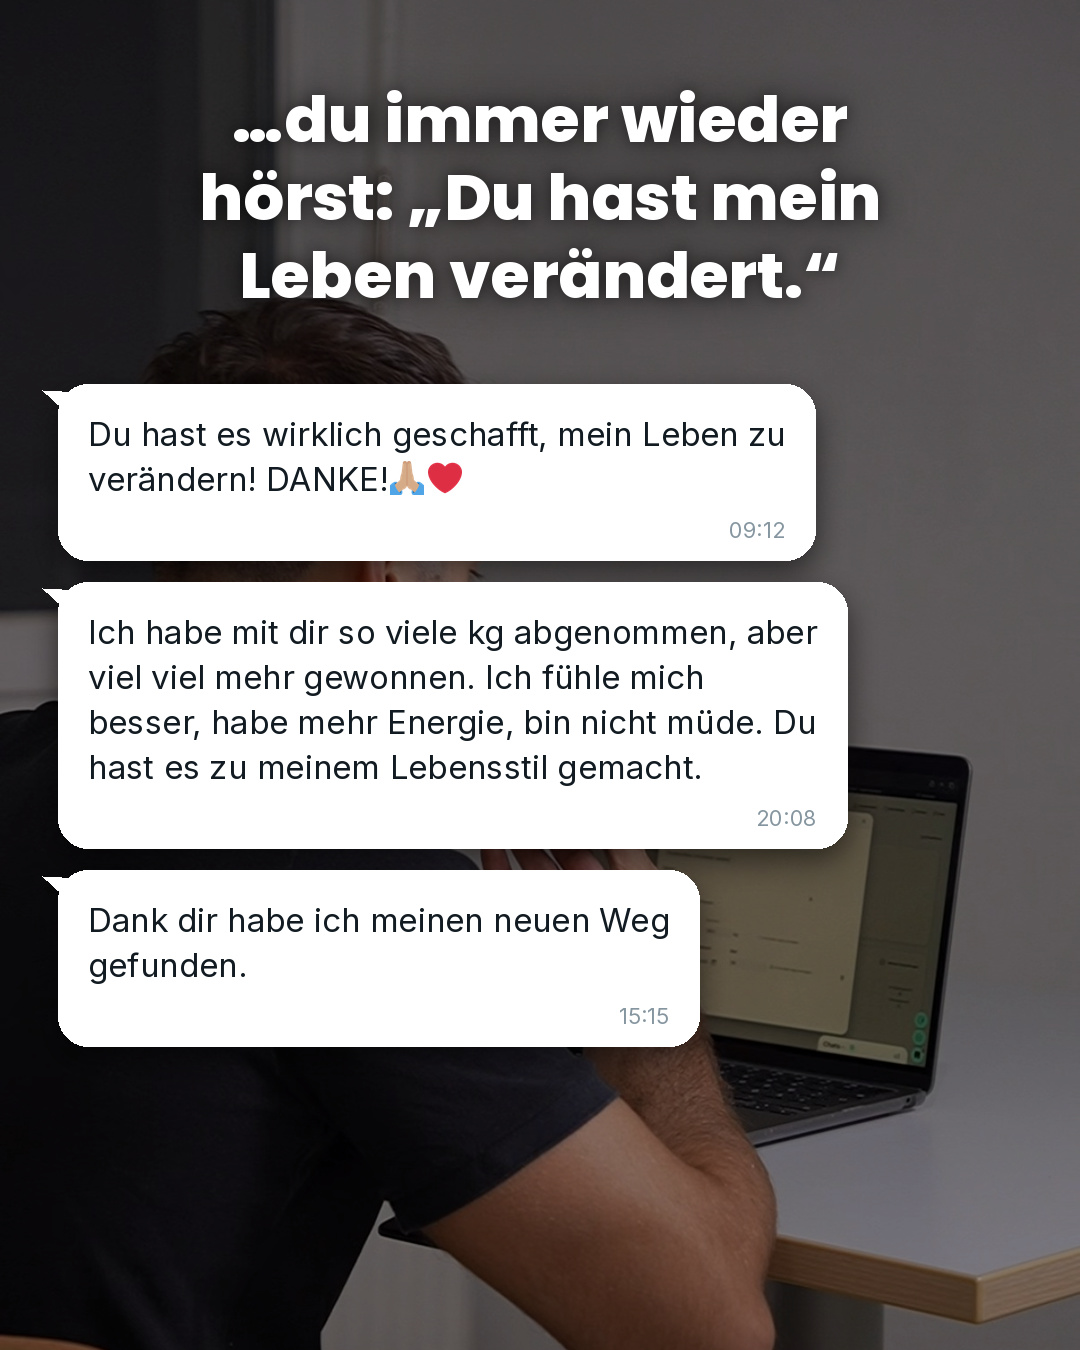
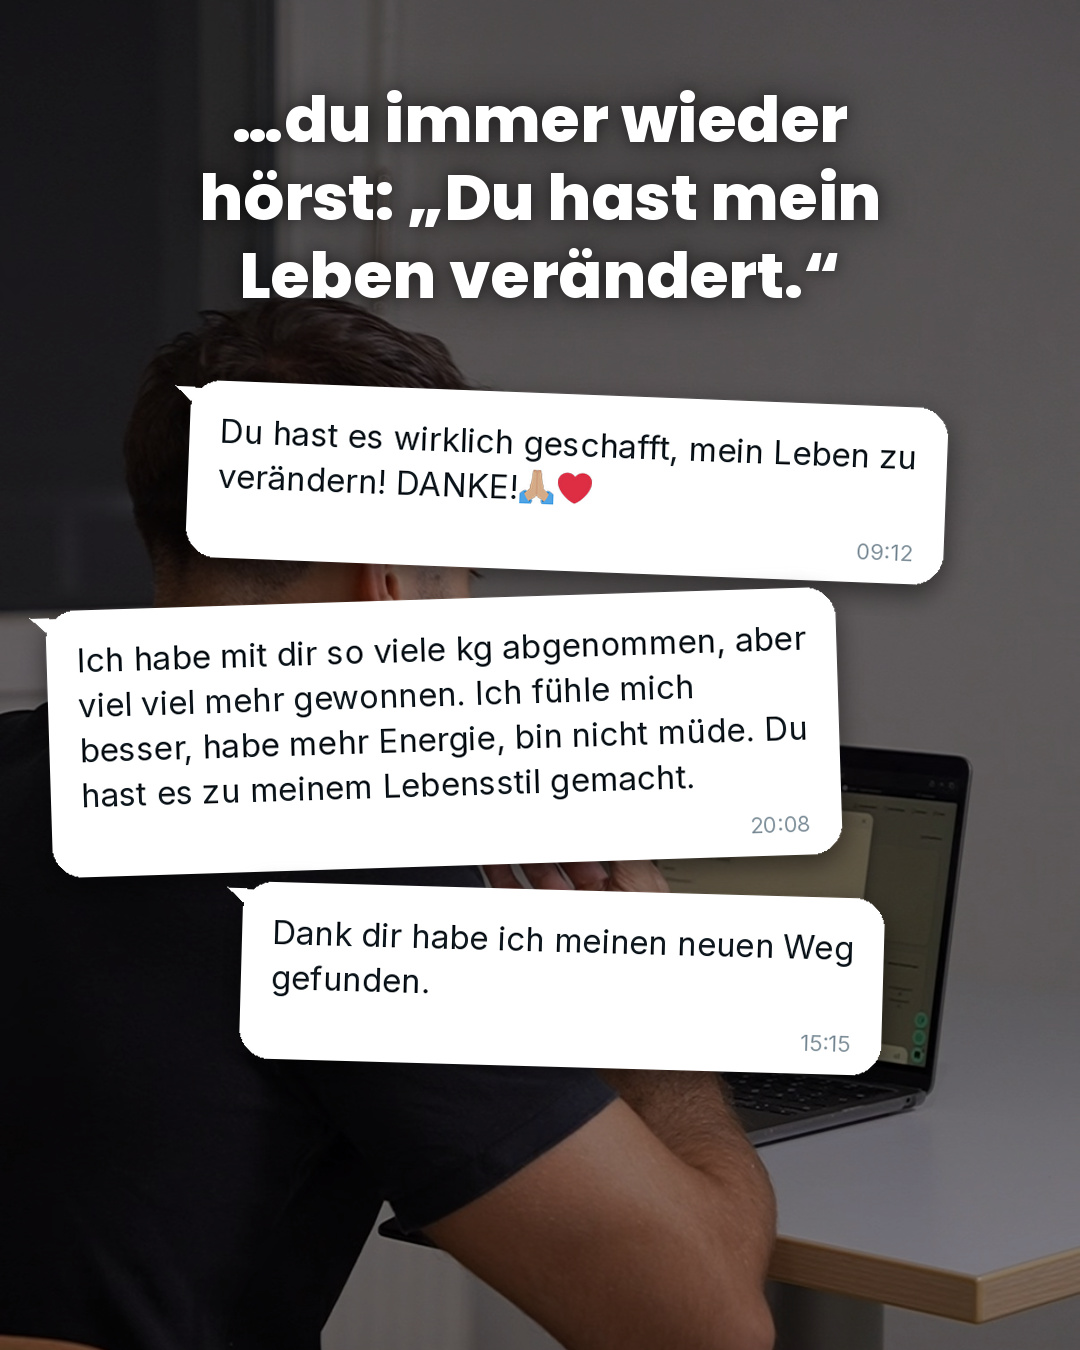
Cringe-Post: Nachrichten als Collage statt als Liste
Die Chat-Blasen stehen nicht mehr buendig untereinander. Jede bringt jetzt
einen eigenen Versatz nach links oder rechts, eine leichte Drehung und
ihren eigenen Schlagschatten mit, sodass es nach aufgeklebten Schnipseln
aussieht. Die Reihenfolge von oben nach unten bleibt, damit der Slide
lesbar bleibt.

Dafuer baut blase_bild() die Blase jetzt als freistehendes RGBA-Bild, das
gedreht aufs Foto kopiert wird.

Claude-Session: https://claude.ai/code/session_01HQCAC1gXM5ymEH3L17w63v

Changed region(s): [[0.0306, 0.28, 0.8861, 0.8089]]

diff --git a/posts/spezial/es-ist-cringe/bau.py b/posts/spezial/es-ist-cringe/bau.py
@@ -165,51 +165,75 @@ def umbrechen_emoji(d, text, f, max_breite, groesse):
     return zeilen
 
 
-def blase(blatt, text, y, zeit="", x=58, groesse=34, max_breite=0.74, radius=30):
-    """Zeichnet eine Chat-Blase wie in einem Messenger. Gibt die Unterkante zurueck."""
-    d = ImageDraw.Draw(blatt)
+def blase_bild(text, zeit="", groesse=34, max_breite=0.74, radius=30):
+    """Baut eine Chat-Blase als freistehendes Bild mit Schatten."""
+    mess = ImageDraw.Draw(Image.new("RGB", (10, 10)))
     f = ImageFont.truetype(INTER, groesse)
     fz = ImageFont.truetype(INTER, 22)
     innen = 30
     zeilen = []
     for absatz in text.split("\n"):
-        zeilen += umbrechen_emoji(d, absatz, f, int(W * max_breite) - 2 * innen, groesse) if absatz.strip() else [""]
+        zeilen += umbrechen_emoji(mess, absatz, f, int(W * max_breite) - 2 * innen, groesse) if absatz.strip() else [""]
     zh = int(groesse * 1.38)
-    breite = max(_breite(d, z, f, groesse) for z in zeilen) + 2 * innen
+    breite = max(_breite(mess, z, f, groesse) for z in zeilen) + 2 * innen
     if zeit:
-        breite = max(breite, d.textlength(zeit, font=fz) + 2 * innen + 40)
+        breite = max(breite, mess.textlength(zeit, font=fz) + 2 * innen + 40)
     breite = int(min(breite, W * max_breite))
     hoehe = len(zeilen) * zh + 2 * innen + (26 if zeit else 0)
 
-    schatten = Image.new("L", blatt.size, 0)
-    ImageDraw.Draw(schatten).rounded_rectangle([x, y, x + breite, y + hoehe], radius, fill=140)
-    schatten = schatten.filter(ImageFilter.GaussianBlur(14))
-    blatt.paste(Image.new("RGB", blatt.size, (0, 0, 0)), (0, 12), schatten)
+    rand = 34                      # Platz fuer Schatten und Zipfel
+    bild = Image.new("RGBA", (breite + 2 * rand, hoehe + 2 * rand), (0, 0, 0, 0))
+    x0, y0 = rand, rand
 
-    d = ImageDraw.Draw(blatt)
-    d.rounded_rectangle([x, y, x + breite, y + hoehe], radius, fill=BLASE)
-    d.polygon([(x + 6, y + radius - 4), (x - 16, y + 6), (x + 22, y + 8)], fill=BLASE)
-    ty = y + innen
+    schatten = Image.new("L", bild.size, 0)
+    sd = ImageDraw.Draw(schatten)
+    sd.rounded_rectangle([x0, y0 + 10, x0 + breite, y0 + hoehe + 10], radius, fill=130)
+    schatten = schatten.filter(ImageFilter.GaussianBlur(13))
+    bild.paste(Image.new("RGBA", bild.size, (0, 0, 0, 255)), (0, 0), schatten)
+
+    d = ImageDraw.Draw(bild)
+    d.rounded_rectangle([x0, y0, x0 + breite, y0 + hoehe], radius, fill=BLASE)
+    d.polygon([(x0 + 6, y0 + radius - 4), (x0 - 16, y0 + 6), (x0 + 22, y0 + 8)], fill=BLASE)
+    ty = y0 + innen
     for zeile in zeilen:
-        _zeichne(blatt, d, x + innen, ty, zeile, f, groesse, BLASE_TEXT)
+        _zeichne(bild, d, x0 + innen, ty, zeile, f, groesse, BLASE_TEXT)
         ty += zh
     if zeit:
         zb = d.textlength(zeit, font=fz)
-        d.text((x + breite - innen - zb, y + hoehe - innen - 14), zeit, font=fz, fill=BLASE_ZEIT)
-    return y + hoehe
+        d.text((x0 + breite - innen - zb, y0 + hoehe - innen - 14), zeit, font=fz, fill=BLASE_ZEIT)
+    return bild, hoehe
+
+
+def blase(blatt, text, y, zeit="", x=58, groesse=34, max_breite=0.74,
+          radius=30, winkel=0.0):
+    """Setzt eine Blase schraeg ins Bild. Gibt die Unterkante zurueck."""
+    bild, hoehe = blase_bild(text, zeit, groesse, max_breite, radius)
+    if winkel:
+        bild = bild.rotate(winkel, resample=Image.BICUBIC, expand=True)
+    px = int(x - 34)
+    py = int(y - 34)
+    px = max(-20, min(px, W - bild.width + 20))
+    blatt.paste(bild, (px, py), bild)
+    return y + hoehe + abs(winkel) * 6
 
 
 def nachrichten(foto, ziel, kopf_text, blasen, mitte=(0.5, 0.5), gr_oben=64,
                 oben_y=0.055, start=0.30, abstand=26, abdunkeln=0.42):
-    """Kopfzeile oben, darunter echte Nachrichten als Chat-Blasen."""
+    """Kopfzeile oben, darunter die Nachrichten als lose Collage.
+
+    Jede Blase bringt ihren eigenen Versatz nach links/rechts und eine leichte
+    Drehung mit, damit es nach aufgeklebten Schnipseln aussieht statt nach
+    Liste. Die Reihenfolge von oben nach unten bleibt, damit es lesbar bleibt.
+    """
     blatt = fuellen(os.path.join(POOL, foto), mitte)
     if abdunkeln:
         dunkel = Image.new("RGB", blatt.size, (0, 0, 0))
         blatt = Image.blend(blatt, dunkel, abdunkeln)
     block(blatt, kopf_text, oben_y, gr_oben, 0.86)
     y = int(H * start)
-    for text, zeit, gr in blasen:
-        y = blase(blatt, text, y, zeit, groesse=gr) + abstand
+    for text, zeit, gr, x_anteil, winkel in blasen:
+        y = blase(blatt, text, y, zeit, x=int(W * x_anteil), groesse=gr,
+                  winkel=winkel) + abstand
     blatt.save(ziel, quality=95, subsampling=0)
     print("  ", os.path.basename(ziel))
 
@@ -221,20 +245,20 @@ slide("DSC06534.jpeg", os.path.join(OUT, "01.jpg"),
 
 nachrichten("DSC06671.jpeg", os.path.join(OUT, "02.jpg"),
             "…dir Kunden täglich\nsolche Nachrichten\nschicken.",
-            [("Ich hab grad endlich mal wieder richtig gute Laune – danke dafür!", "10:41", 33),
-             ("Ich habe die 67 auf der Waage \U0001F60C, was ich schon lange nicht mehr hatte.", "15:15", 33),
-             ("War irgendwie cool heute – hatte nach dem Training die ganze Zeit gute Laune!", "20:08", 33),
-             ("Danke dir, dass du es tatsächlich schaffst, mich seit 2 Jahren bei der Stange zu halten!", "14:42", 33)],
-            mitte=(0.5, 0.45), gr_oben=64, start=0.275, abstand=22)
+            [("Ich hab grad endlich mal wieder richtig gute Laune – danke dafür!", "10:41", 33, 0.05, 2.4),
+             ("Ich habe die 67 auf der Waage \U0001F60C, was ich schon lange nicht mehr hatte.", "15:15", 33, 0.19, -2.0),
+             ("War irgendwie cool heute – hatte nach dem Training die ganze Zeit gute Laune!", "20:08", 33, 0.03, 1.5),
+             ("Danke dir, dass du es tatsächlich schaffst, mich seit 2 Jahren bei der Stange zu halten!", "14:42", 33, 0.16, -2.6)],
+            mitte=(0.5, 0.45), gr_oben=64, start=0.265, abstand=16)
 
 nachrichten("laptop-handy-sprechen.jpeg", os.path.join(OUT, "03.jpg"),
             "…du immer wieder\nhörst: „Du hast mein\nLeben verändert.“",
-            [("Du hast es wirklich geschafft, mein Leben zu verändern! DANKE!\U0001F64F\U0001F3FD\u2764\uFE0F", "09:12", 33),
+            [("Du hast es wirklich geschafft, mein Leben zu verändern! DANKE!\U0001F64F\U0001F3FD\u2764\uFE0F", "09:12", 33, 0.17, -2.2),
              ("Ich habe mit dir so viele kg abgenommen, aber viel viel mehr gewonnen. "
               "Ich fühle mich besser, habe mehr Energie, bin nicht müde. Du hast es zu "
-              "meinem Lebensstil gemacht.", "20:08", 33),
-             ("Dank dir habe ich meinen neuen Weg gefunden.", "15:15", 33)],
-            mitte=(0.5, 0.30), gr_oben=64, start=0.285, abstand=22)
+              "meinem Lebensstil gemacht.", "20:08", 33, 0.04, 1.8),
+             ("Dank dir habe ich meinen neuen Weg gefunden.", "15:15", 33, 0.22, -1.6)],
+            mitte=(0.5, 0.30), gr_oben=64, start=0.28, abstand=18)
 
 slide("DSC06621.jpeg", os.path.join(OUT, "04.jpg"),
       "…die Leute, die dich\nanfangs ausgelacht\nhaben, dich nach\ndeinem Rat fragen.",

diff --git a/posts/spezial/es-ist-cringe/post.md b/posts/spezial/es-ist-cringe/post.md
@@ -33,6 +33,11 @@ Namen, Profilbilder oder Chat-Kopf** nachgebaut. Gezeichnet als Chat-Blasen
 (weiß, abgerundet, Uhrzeit unten rechts) über dem abgedunkelten Foto, so wie
 man es in Canva zusammenbauen würde — kein Screenshot.
 
+Die Blasen stehen **nicht bündig untereinander**, sondern als Collage: jede
+bringt ihren eigenen Versatz nach links oder rechts und eine leichte Drehung
+(± 1,5 bis 2,6 Grad) mit, dazu einen eigenen Schlagschatten. Die Reihenfolge
+von oben nach unten bleibt, damit es lesbar bleibt.
+
 | Slide | Text in der Blase |
 |---|---|
 | 2 | „Ich hab grad endlich mal wieder richtig gute Laune – danke dafür!" |
